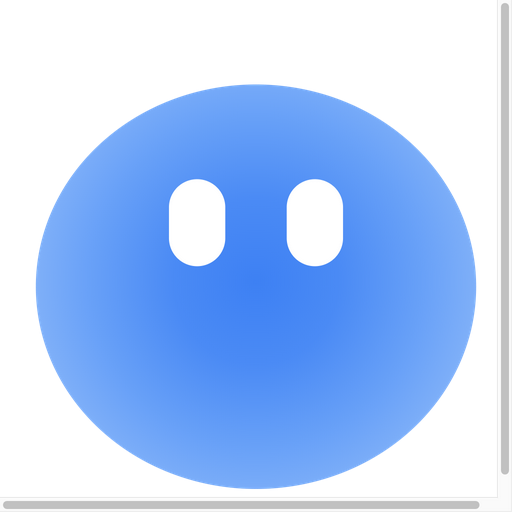
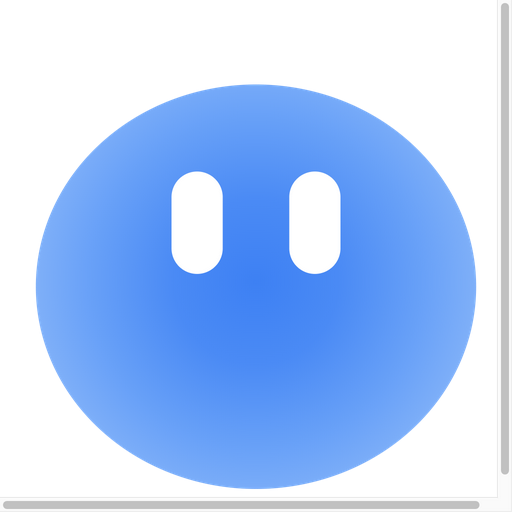
双模式 stay/kolo + 胶囊眼 + 右键/竞态修复
- 行为模式：stay（乖乖待着，不散步）/ kolo（到处乱跑），菜单单选，持久化
- 默认眼改为 2:1 竖胶囊（20x40），小体型下不会再读成圆形；剪影图标同步
- 修复：右键被误当戳（35% 触发圆形震惊眼）且抬起事件被菜单吞掉导致
  pressing 卡死、宠物跟鼠标走；现在戳/拖只响应左键，pointercancel 走同一清理
- 修复：震惊/生气表情复位与入睡的竞态（复位前确认表情未被改）
- before-quit 同步落盘设置，不再丢最后的位置/模式
- 回归测试扩至 29 项（新增 T8 模式行为、T9 右键不戳、T10 右键不跟鼠标）

diff --git a/index.html b/index.html
@@ -101,7 +101,7 @@
 if (!window.petAPI) {
   window.petAPI = {
     step: () => {}, onStepDone: () => {}, dragStart: () => {}, dragTo: () => {}, resize: () => {},
-    onScale: () => {}, onCursor: () => {}, onToggleSleep: () => {}, onTalk: () => {}
+    onScale: () => {}, onCursor: () => {}, onMode: () => {}, onToggleSleep: () => {}, onTalk: () => {}
   };
 }
 
@@ -121,8 +121,8 @@ function orbSvg() {
   <g class="eye-track">
   <g class="eyes-wrap">
     <g class="expr expr-default">
-      <rect x="66" y="70" width="22" height="34" rx="11" fill="#ffffff"/>
-      <rect x="112" y="70" width="22" height="34" rx="11" fill="#ffffff"/>
+      <rect x="67" y="67" width="20" height="40" rx="10" fill="#ffffff"/>
+      <rect x="113" y="67" width="20" height="40" rx="10" fill="#ffffff"/>
     </g>
     <g class="expr expr-happy">
       <path d="M64 92 Q77 76 90 92" stroke="#ffffff" stroke-width="9" fill="none" stroke-linecap="round"/>
@@ -185,6 +185,12 @@ function say(text, ms) {
 
 /* ---------- 状态机：idle / walk / sleep / drag ---------- */
 let state = 'idle';
+/* ---------- 行为模式：stay 乖乖待着（不散步）/ kolo 到处乱跑 ---------- */
+let mode = 'kolo';
+petAPI.onMode(m => {
+  mode = m;
+  if (m === 'stay' && state === 'walk') toIdle(); // 正在走路也原地停下
+});
 let dir = Math.random() < .5 ? 1 : -1;
 let stateTimer = null, stepTimer = null, walkStopTimer = null, sleepTimer = null;
 
@@ -206,8 +212,8 @@ function toIdle() {
 function decide() {
   if (state !== 'idle') return;
   const r = Math.random();
-  if (r < .55) startWalk();
-  else if (r < .75) startSleep();
+  if (mode === 'kolo' && r < .55) startWalk();          // stay 模式不散步
+  else if (r < (mode === 'kolo' ? .75 : .2)) startSleep();
   else stateTimer = setTimeout(decide, 3000 + Math.random() * 4000);
 }
 
@@ -241,7 +247,7 @@ function wake(angry) {
   if (angry) {
     setExpr('angry');
     say('……干嘛啦', 1200);
-    setTimeout(() => setExpr('default'), 1500);
+    setTimeout(() => { if (orb.dataset.expr === 'angry') setExpr('default'); }, 1500);
   } else {
     setExpr('default');
     squash.classList.add('wobble');
@@ -263,7 +269,8 @@ function poke() {
   say(pokeTexts[Math.floor(Math.random() * pokeTexts.length)], 750);
   if (Math.random() < .35) {
     setExpr('shock');
-    setTimeout(() => setExpr('default'), 650);
+    // 竞态防护：复位时若表情已被别的状态（如睡觉）改掉，不再覆盖回 default
+    setTimeout(() => { if (orb.dataset.expr === 'shock') setExpr('default'); }, 650);
   }
   setTimeout(() => { squash.classList.remove('poked'); poking = false; }, 520);
 }
@@ -273,6 +280,7 @@ let pressX = 0, pressY = 0;
 let lastX = 0, lastY = 0, lastT = 0;
 
 orb.addEventListener('pointerdown', e => {
+  if (e.button !== 0) return; // 只响应左键：右键只开菜单，不能戳（否则 35% 触发圆形震惊眼）
   pressing = true; dragging = false;
   // 注意：必须用 screenX（屏幕绝对坐标）。clientX 是相对窗口的，
   // 窗口跟着鼠标一动，clientX 就被自己的移动抵消，形成反馈（实测拖到一半速）
@@ -303,7 +311,11 @@ window.addEventListener('pointermove', e => {
   }
 });
 
-window.addEventListener('pointerup', () => {
+window.addEventListener('pointerup', onPointerEnd);
+// 指针被系统/菜单打断（pointercancel）时走同一套清理，防止 pressing/dragging 卡死
+window.addEventListener('pointercancel', onPointerEnd);
+
+function onPointerEnd() {
   if (!pressing) return;
   pressing = false;
   if (dragging) {
@@ -317,7 +329,7 @@ window.addEventListener('pointerup', () => {
   } else {
     poke();
   }
-});
+}
 
 /* ---------- 说话 ---------- */
 const talkTexts = [

diff --git a/preload.js b/preload.js
@@ -16,6 +16,8 @@ contextBridge.exposeInMainWorld('petAPI', {
   onScale: (cb) => ipcRenderer.on('pet-scale', (_e, s) => cb(s)),
   // 主进程通报光标屏幕坐标（眼睛追踪用）
   onCursor: (cb) => ipcRenderer.on('cursor-pos', (_e, p) => cb(p)),
+  // 主进程通报行为模式（stay / kolo）
+  onMode: (cb) => ipcRenderer.on('set-mode', (_e, m) => cb(m)),
   // 调试用：查询主进程权威状态
   debugState: () => ipcRenderer.invoke('pet-debug-state'),
   // 调试用：测试时开关鼠标穿透

diff --git a/README.md b/README.md
@@ -14,7 +14,8 @@
 - **说话**（双击，或右键菜单）：原地蹦跶 + 冒气泡（它没有嘴，设定如此）
 - **滚轮缩放**：96–600px 无级调节，以鼠标为中心，气泡始终固定大小贴头顶
 - **眼睛看向鼠标**：你在它旁边晃，它会看你
-- **记住状态**：大小和位置重启后自动恢复
+- **记住状态**：大小、位置和模式重启后自动恢复
+- **两种模式**：`stay` 乖乖待着（原地生活，不散步）/ `kolo` 到处乱跑（kimi only live once）
 - **托盘图标**：macOS 菜单栏 / Windows 系统托盘，和右键同一套菜单
 - **右键菜单**：睡觉 / 叫醒 / 说句话 / 大小（120–480px 五档）/ 退出
 - 睡觉时戳它会被骂